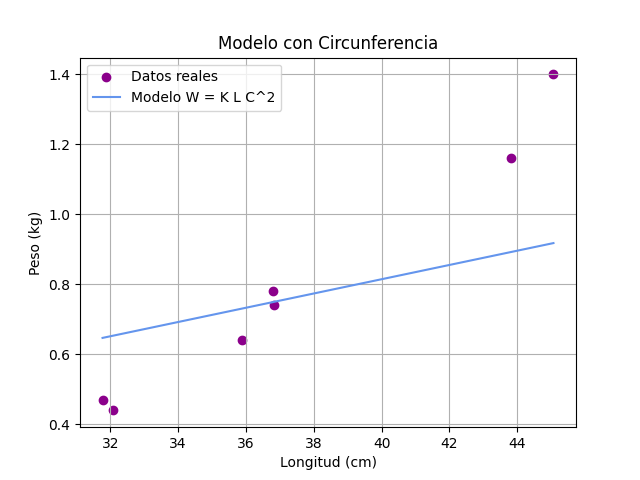
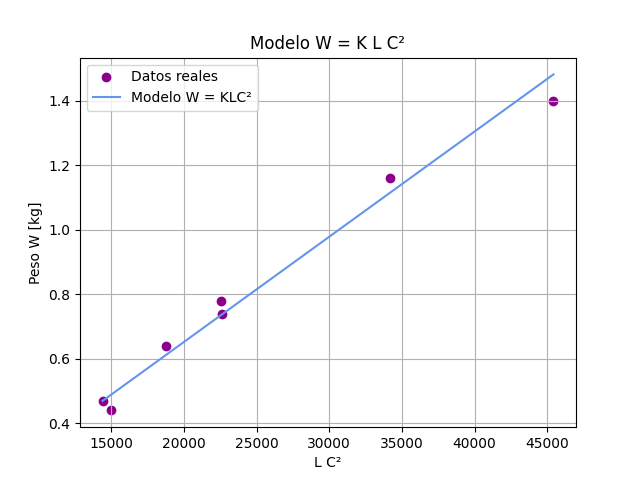
.

diff --git a/main.py b/main.py
@@ -41,25 +41,23 @@ def make_plot(longitudes, pesos, K):
     plt.close()
     
 def make_plot_circ(longitudes, circunferencias, pesos, K):
-    """Gráfica del modelo W = K L C^2 usando C promedio."""
+    """Gráfica del modelo W = K L C^2 """
 
-    plt.scatter(longitudes, pesos,
-                color="darkmagenta",
-                label="Datos reales")
+    
+    X = np.array(longitudes) * (np.array(circunferencias)**2)
 
-    l_espacio = np.linspace(min(longitudes), max(longitudes), 100)
-    C_prom = np.mean(circunferencias)
+    plt.scatter(X, pesos, color="darkmagenta", label="Datos reales")
 
-    plt.plot(l_espacio,
-             K * l_espacio * (C_prom ** 2),
-             color="cornflowerblue",
-             label="Modelo W = K L C^2")
+    x_line = np.linspace(min(X), max(X), 100)
+    plt.plot(x_line, K*x_line, color="cornflowerblue",
+             label="Modelo W = KLC²")
 
-    plt.xlabel("Longitud l [cm]")
+    plt.xlabel("L C²")
     plt.ylabel("Peso W [kg]")
-    plt.title("Modelo con Circunferencia")
+    plt.title("Modelo W = K L C²")
     plt.legend()
     plt.grid(True)
+
 
     plt.savefig("media/grafica_modelo2.png")
     plt.show()

diff --git a/README.md b/README.md
@@ -82,7 +82,7 @@ Utiliza los datos anteriores y el método de tu preferencia para estimar un buen
 *Modelo ajustado: $W = 1.45 \times 10^{-5} \cdot l^3$*
 *Coeficiente de correlación $(r): 0.9907$*
 
-En la imagen podemos notar que el ajuste es una muy buena aproximación. El ajuste toca dos puntos de la gráfica, sin embargo, mantiene la tendencia de los datos reales (dejanso de lado valores atípicos). 
+En la imagen podemos notar que el ajuste es una muy buena aproximación. El ajuste toca dos puntos de la gráfica, sin embargo, mantiene la tendencia de los datos reales (dejando de lado valores atípicos). 
 El valor obtenido en el índice de correlación nos dice que hay una relación positiva y muy marcada entre la longitud de los peces y su peso, lo que quiere decir que es muy marcado el aumento del peso de los ejemplares en función de su talla. 
 
 ## Ejercicio 3
